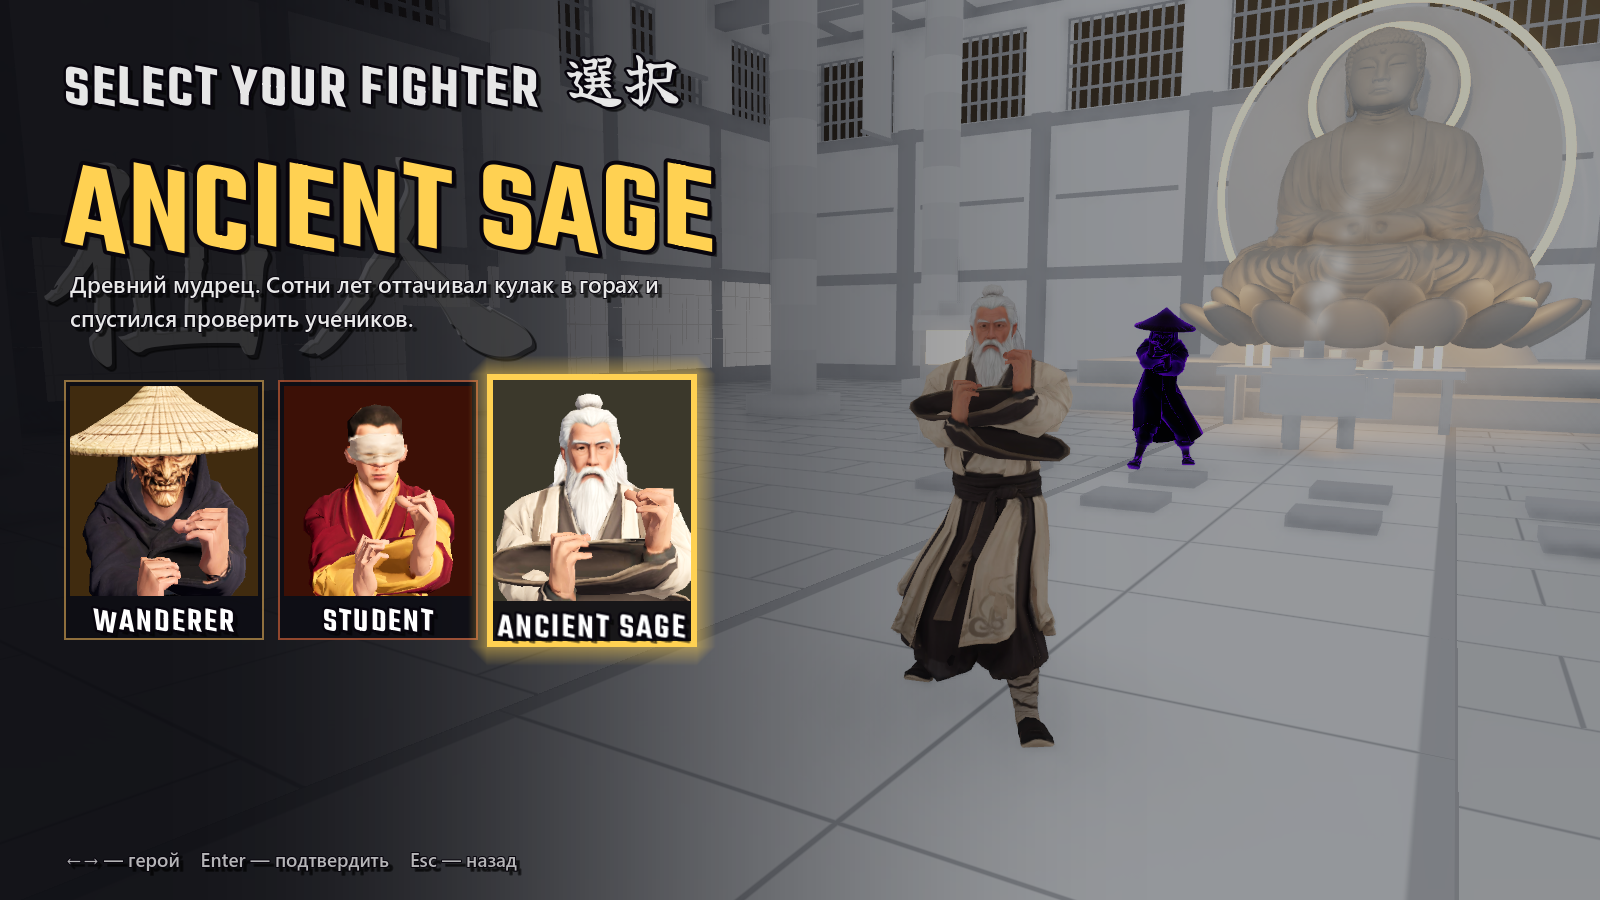
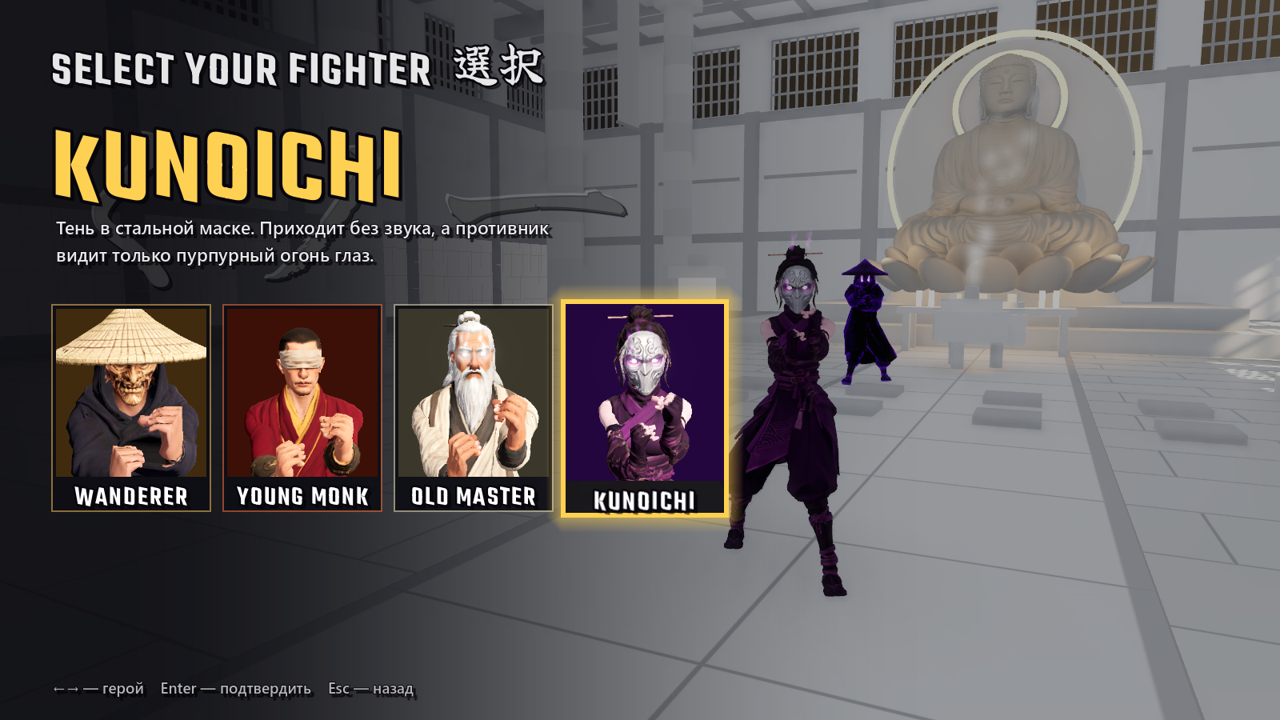
Shadow Fist 1.1: four heroes, waterfall map, updated controls and credits

diff --git a/README.md b/README.md
@@ -3,12 +3,15 @@
 Файтинг в стиле кунг-фу и аниме от третьего лица. Выбери героя и выходи против ронинов: они идут один за другим, пока ты
 не упадёшь. Рекорд — сколько противников ты победил за один забег.
 
-**Три героя:** странствующий ронин Wanderer 旅人, слепой ученик монастыря Student 門弟 и древний мудрец Ancient Sage 仙人.
+**Четыре героя:** странствующий ронин Wanderer 旅人, молодой монах с повязкой на глазах Young Monk 若僧, старый мастер с белым огнём в глазах Old Master 老師 и куноити в стальной маске Kunoichi くノ一.
 
-**Две карты, и на обеих всё рушится:** круглая арена под открытым небом и буддийский храм. У храма можно проломить боковые
-стены: за ними хранилище сутр и зал тренировок.
+**Три карты, и на всех всё рушится:** круглая арена под открытым небом, буддийский храм с проламываемыми стенами и водопад: бой на мокрой плите и по мелководью, тории, мельница, бамбук, а за завесой воды — пещера с алтарём.
 
 ![Выбор героя](screenshots/select.png)
+
+![Водопад](screenshots/waterfall.png)
+
+![Пещера за водопадом](screenshots/cave.png)
 
 ![Храм](screenshots/temple.png)
 
@@ -28,18 +31,18 @@
 |---|---|
 | WASD, мышь | ходьба и взгляд, Shift — бег |
 | ЛКМ | удары руками, до 5 подряд |
-| ПКМ | удары ногами: правой → левой → вертушка. После 2+ ударов рукой — Crane flight, по летящему противнику — Hammer fall |
-| Пробел | прыжок; ещё раз в воздухе — двойной прыжок с сальто. В прыжке ЛКМ — удар рукой сверху, ПКМ — удар ногой с налёта, рядом с противником — Falling star (тратит ци) |
+| ПКМ | удары ногами: правой → левой → вертушка. После 2+ ударов рукой — Crane flight. По летящему противнику ПКМ ×3 — Sky kick → Hammer fall → Tornado, один раз за полёт |
+| Пробел | прыжок; ещё раз в воздухе — двойной: кувырок вперёд, вбок — боковое сальто, назад — сальто назад. Лёжа — подъём разгибом. В прыжке ЛКМ — шпагат и два кулака вниз (1 деление ци), ПКМ — удар ногой с налётом |
 | Двойной пробел | рывок-уклон |
 | E | Wind step — рывок к противнику с ударом (тратит ци) |
-| Q | блок; если поставить вовремя — парирование |
+| Q | блок; если поставить вовремя — парирование и ответный One Inch Punch |
 | F | Thousand hands — супер-удар (нужно 2 деления ци, тратит всю шкалу, немного лечит) |
-| Tab / C | выбрать / применить способность: заморозка или «каменная обезьяна» (тратит ци) |
+| Tab / C | выбрать / применить способность: заморозка Frost seal или «каменная обезьяна» Rock solid — отбив и удар, который впечатывает в стену (тратит ци) |
 | T | вызов |
 | Колёсико | приблизить / отдалить камеру |
 | Esc | пауза и выход в меню; F1 — подсказка |
 
-Ци копится от попаданий, блоков, парирований и идеальных уклонов.
+Ци копится от попаданий, блоков, парирований и идеальных уклонов. Все кнопки можно переназначить в меню, пункт CONTROLS.
 
 ## Авторы
 
@@ -49,6 +52,8 @@
   [CC BY 4.0](https://creativecommons.org/licenses/by/4.0/). В игре изменены масштаб и сглаживание.
 - **Кисть для длани Будды:** Blender Studio, Dan Ulrich и др., Human Base Meshes (CC0). В игре переделана: срезана, упрощена,
   добавлены колесо дхармы и браслеты.
+- **Текстура камня на водопаде:** [Poly Haven](https://polyhaven.com/a/cliff_side), cliff_side (CC0).
+- **Ледяные кристаллы:** ipoly3d, [LowPoly Crystals Pack](https://opengameart.org/content/lowpoly-crystals-pack) (CC0).
 - **Анимации:**
   - mocapdata.com, Eyes, JAPAN Co. Ltd. — *This motion capture data is licensed by mocapdata.com, Eyes, JAPAN Co. Ltd.
     under the Creative Commons Attribution 2.1 Japan License. http://mocapdata.com/ (C) Copyright Eyes, JAPAN Co. Ltd.
